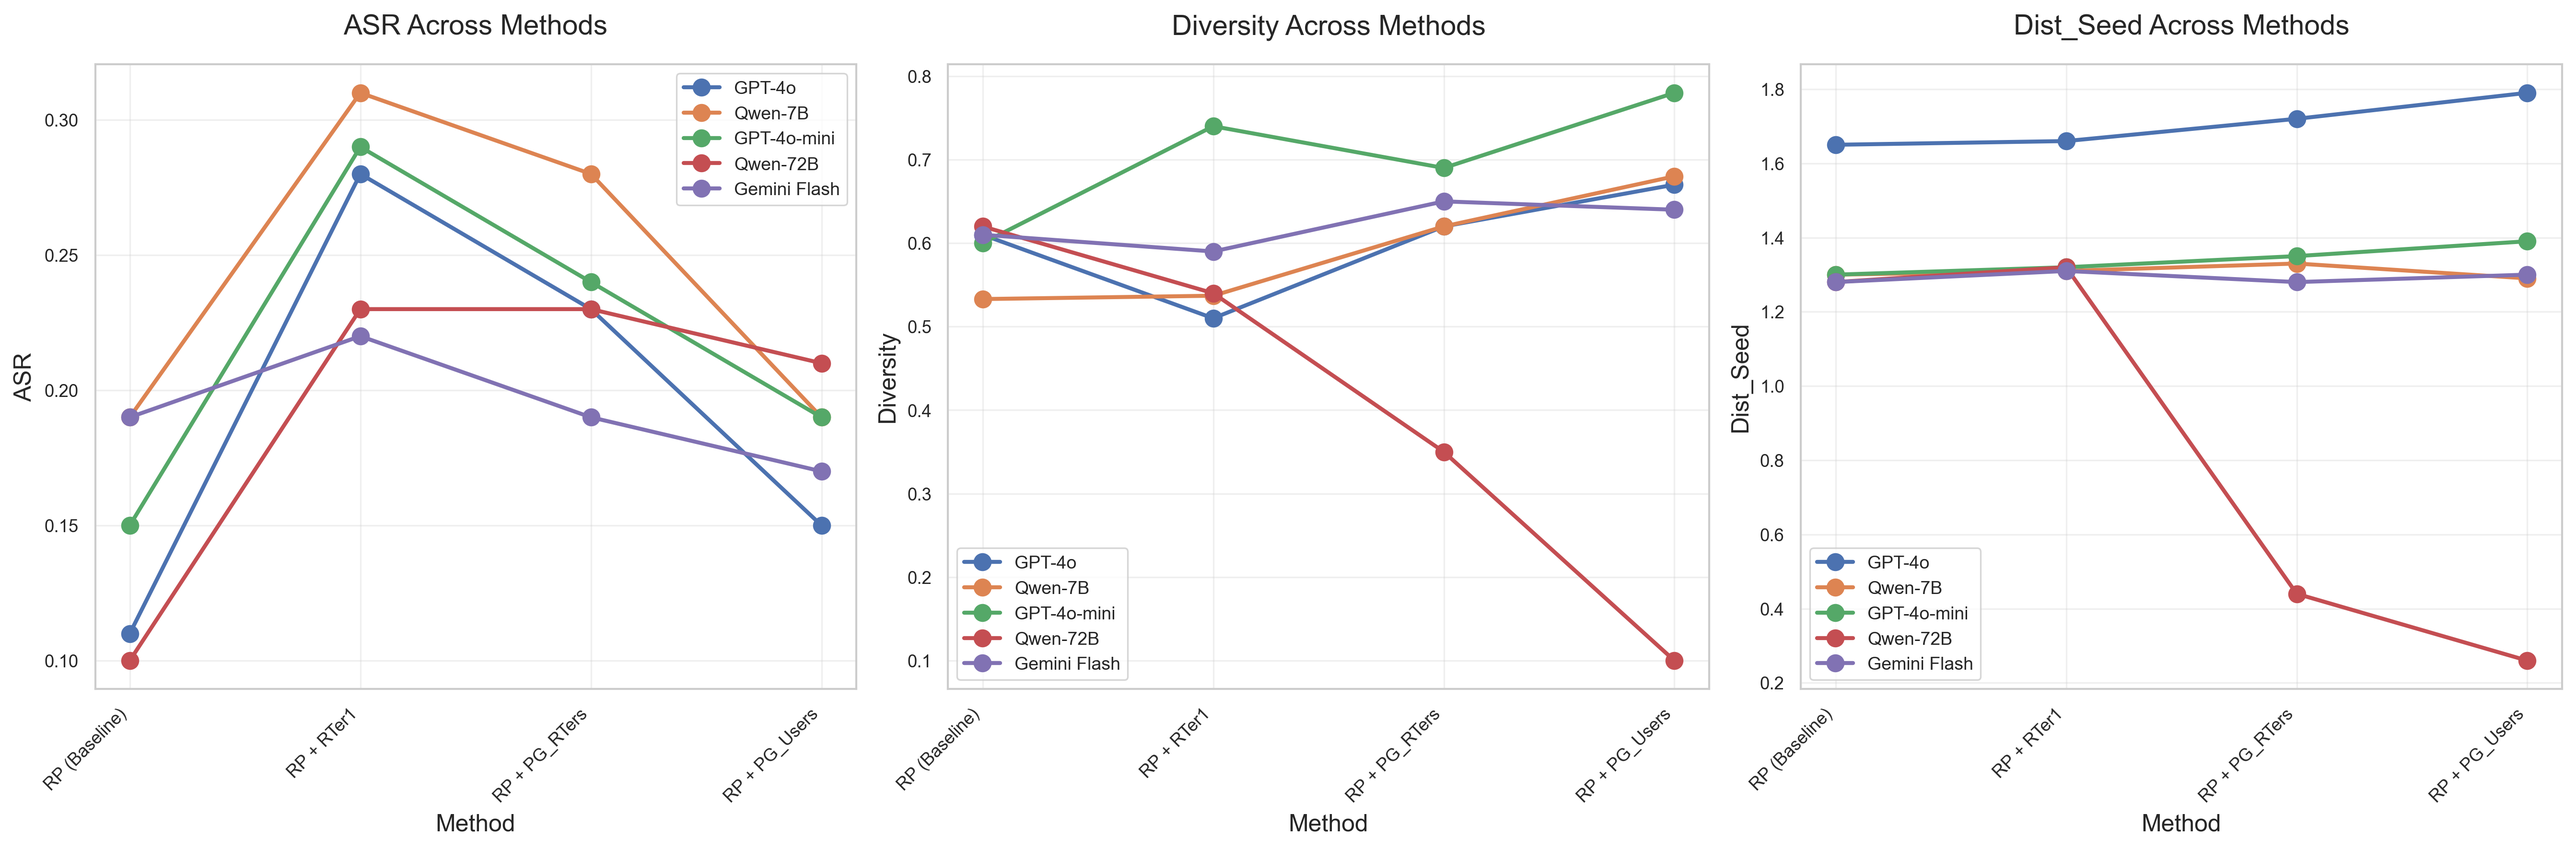
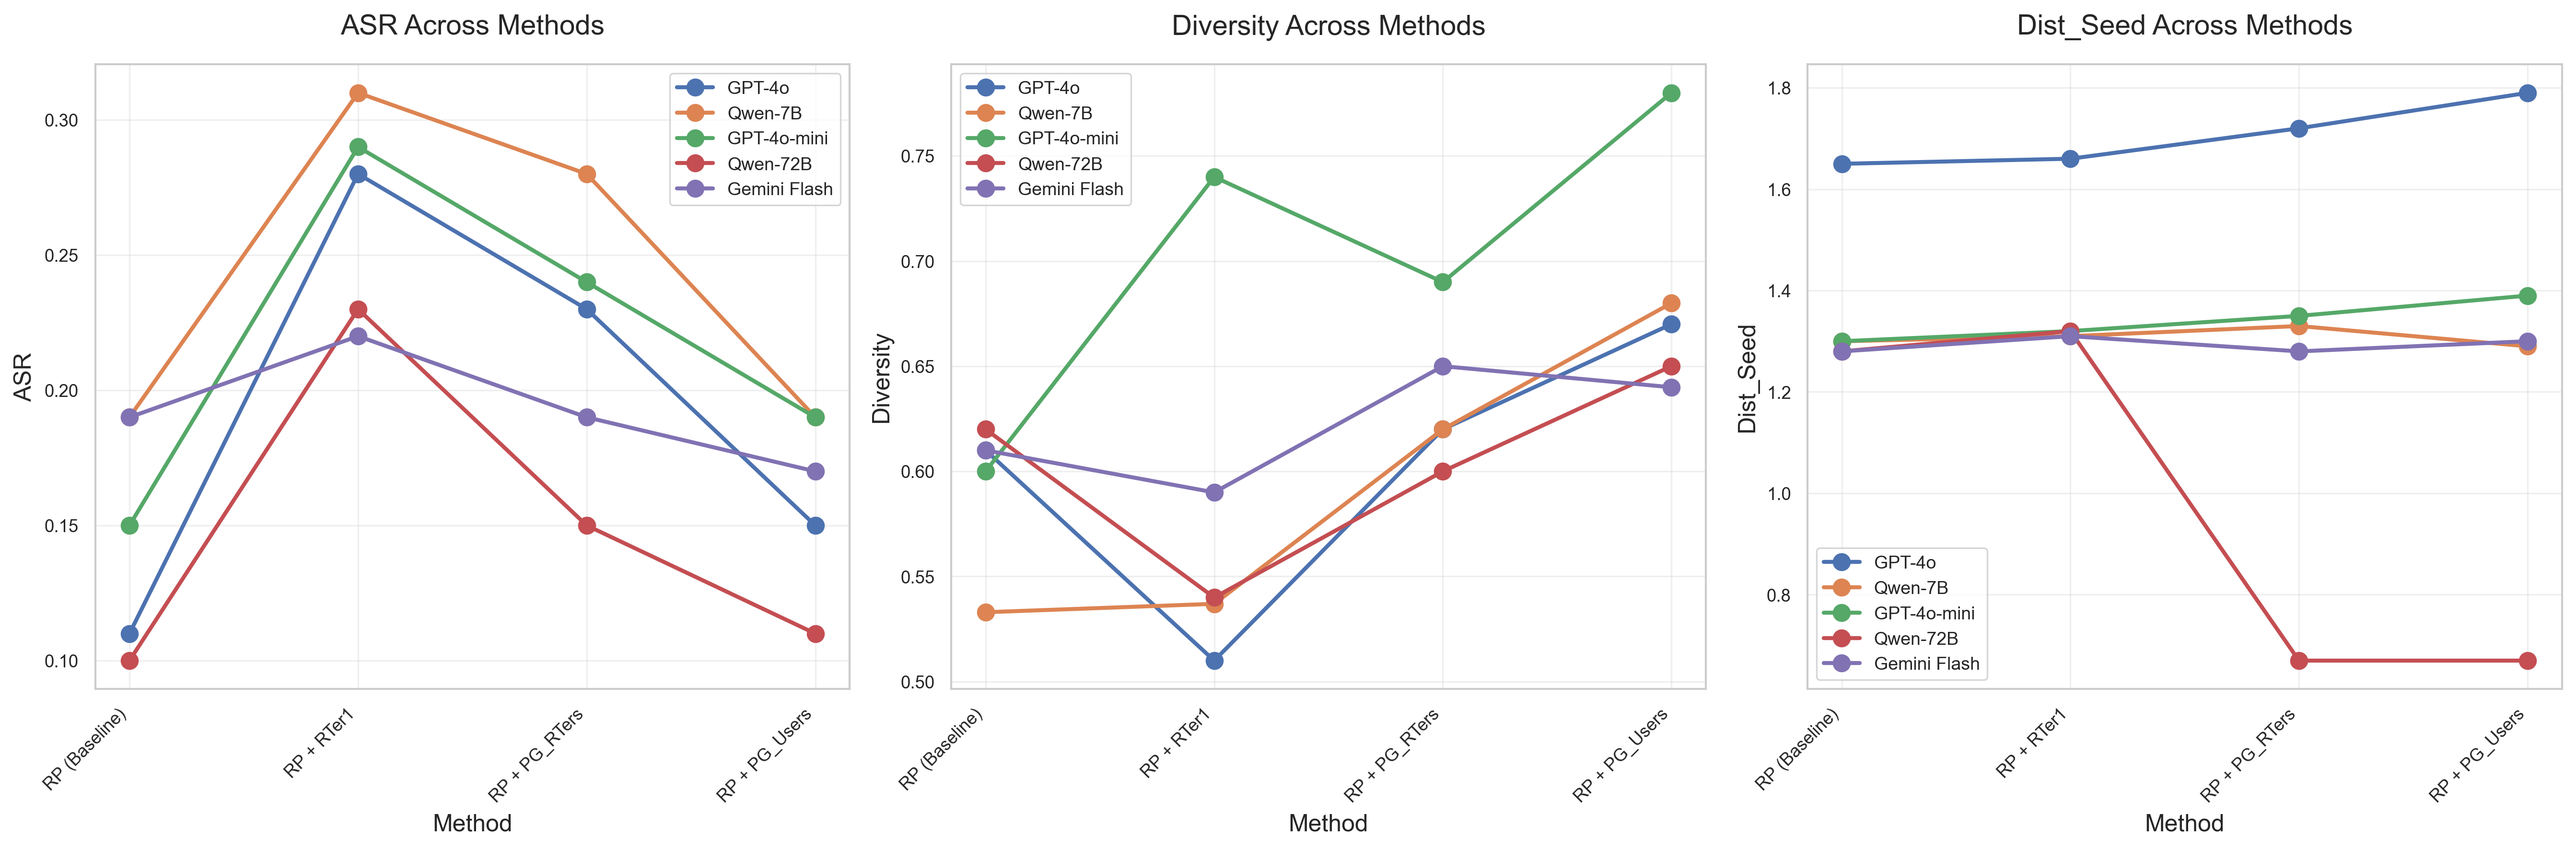
corrected qwen data

diff --git a/analyze_final_result.py b/analyze_final_result.py
@@ -99,10 +99,10 @@ data = [
     {'Model': 'Qwen-72B', 'Method': 'RP + RTer1',    'ASR': 0.23, 'Diversity': 0.54, 'Dist_Seed': 1.32},
     {'Model': 'Qwen-72B', 'Method': 'RP + User0',    'ASR': 0.12, 'Diversity': 0.46, 'Dist_Seed': 1.32},
     {'Model': 'Qwen-72B', 'Method': 'RP + User1',    'ASR': 0.10, 'Diversity': 0.63, 'Dist_Seed': 1.31},
-    {'Model': 'Qwen-72B', 'Method': 'RP + PG_RTers', 'ASR': 0.23, 'Diversity': 0.35, 'Dist_Seed': 0.44},
-    {'Model': 'Qwen-72B', 'Method': 'RP + PG_Users', 'ASR': 0.21, 'Diversity': 0.10, 'Dist_Seed': 0.26},
-    {'Model': 'Qwen-72B', 'Method': 'PG_RTers',      'ASR': 0.15, 'Diversity': 0.60, 'Dist_Seed': 0.67},
-    {'Model': 'Qwen-72B', 'Method': 'PG_Users',      'ASR': 0.11, 'Diversity': 0.65, 'Dist_Seed': 0.67},
+    {'Model': 'Qwen-72B', 'Method': 'RP + PG_RTers', 'ASR': 0.15, 'Diversity': 0.60, 'Dist_Seed': 0.67},
+    {'Model': 'Qwen-72B', 'Method': 'RP + PG_Users', 'ASR': 0.11, 'Diversity': 0.65, 'Dist_Seed': 0.67},
+    {'Model': 'Qwen-72B', 'Method': 'PG_RTers',      'ASR': 0.23, 'Diversity': 0.35, 'Dist_Seed': 0.44},
+    {'Model': 'Qwen-72B', 'Method': 'PG_Users',      'ASR': 0.21, 'Diversity': 0.10, 'Dist_Seed': 0.26},
 
     # --- Table 7: Gemini 2.5 flash ---
     {'Model': 'Gemini Flash', 'Method': 'RP (Baseline)', 'ASR': 0.19, 'Diversity': 0.61, 'Dist_Seed': 1.28},
